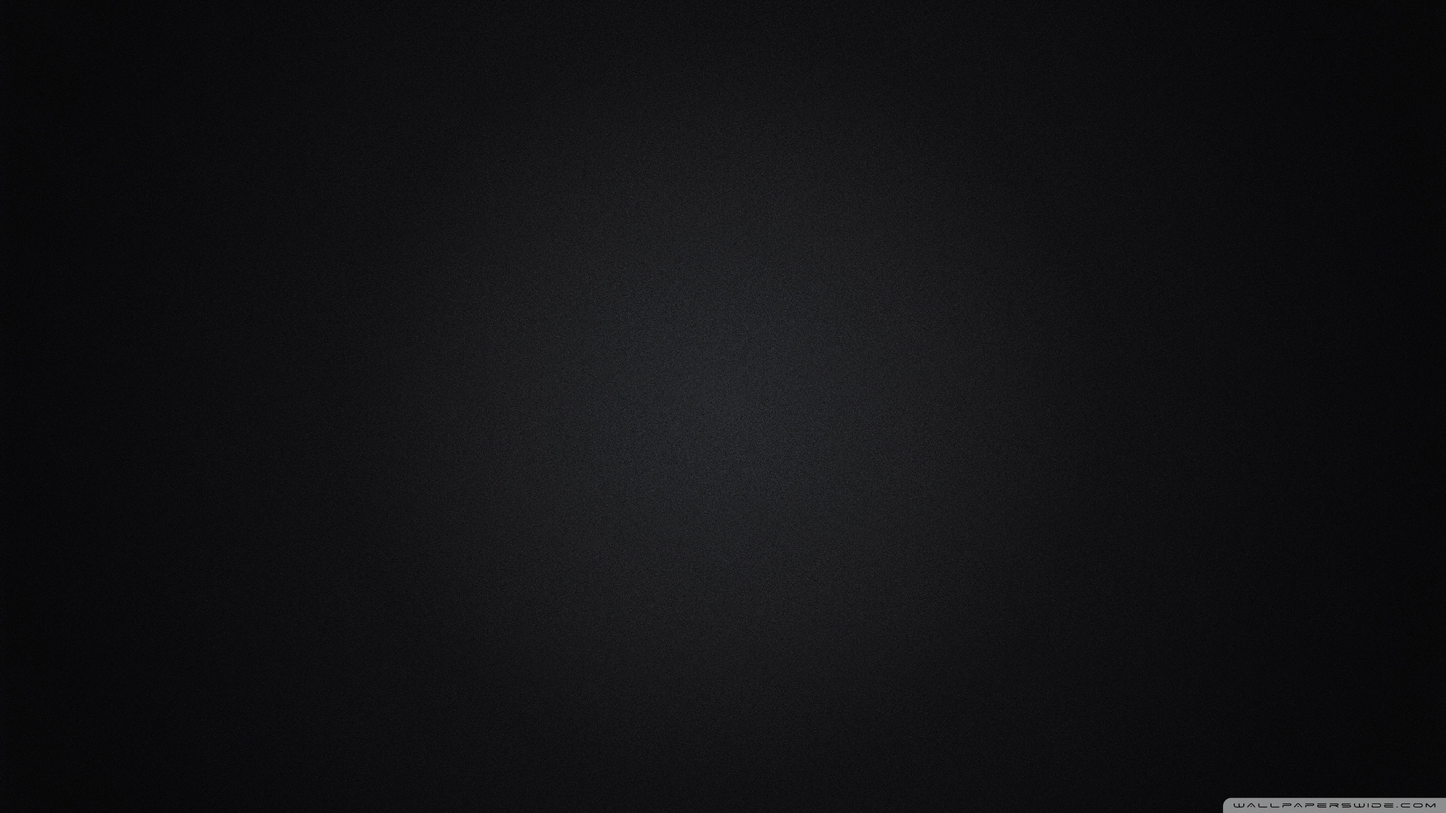
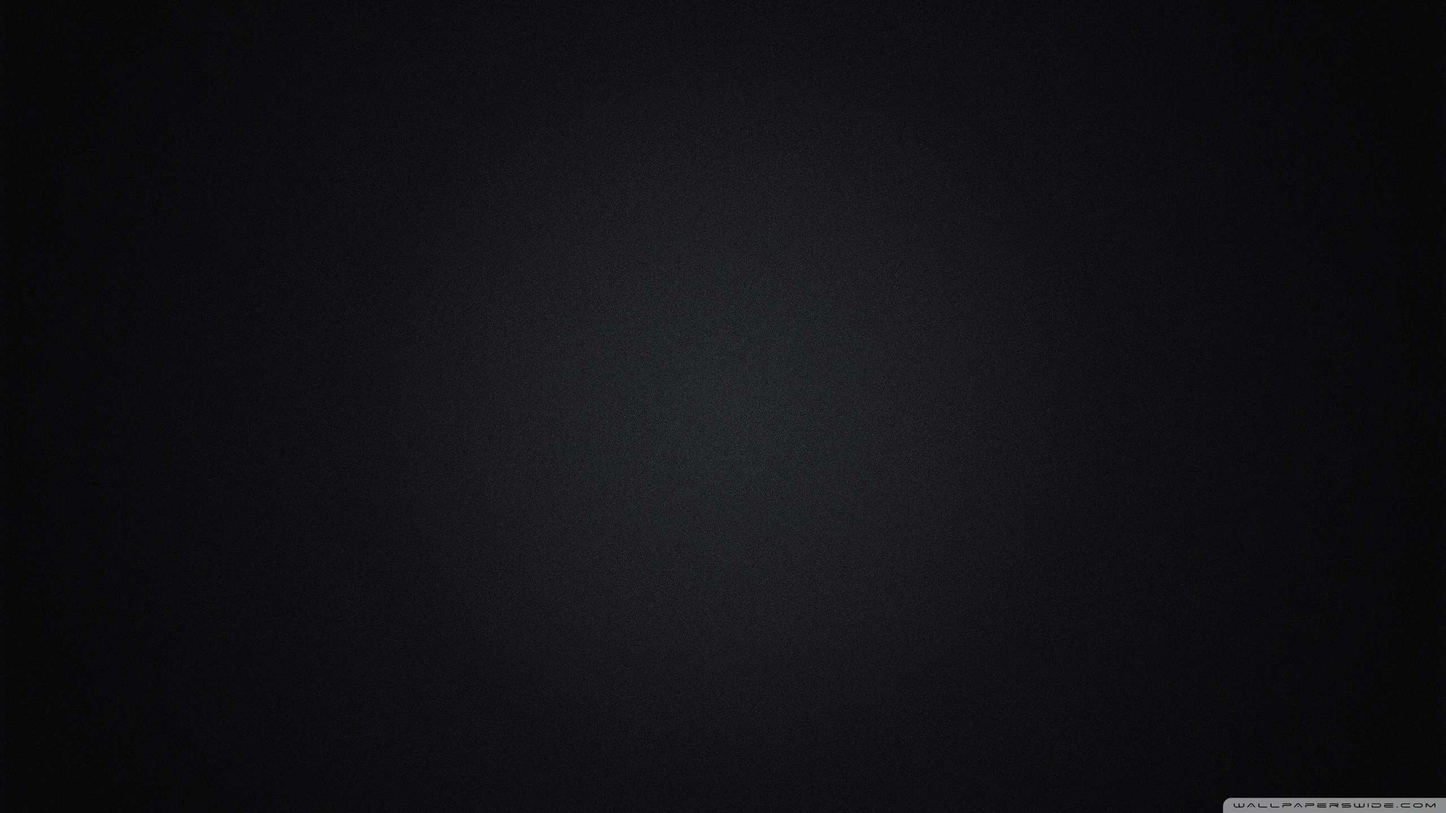
reduced background image size and increased time visibility

diff --git a/src/components/Videos.js b/src/components/Videos.js
@@ -35,7 +35,7 @@ function Videos(props) {
             <p className="card-text"></p>
           </div>
           <div className="card-footer">
-            <small className="text-muted">Uploaded at {date}</small>
+            <small className=""  style={{ color: '#FFFFFF8C' }}>Uploaded at {date}</small>
           </div>
         </div>
       </div>
